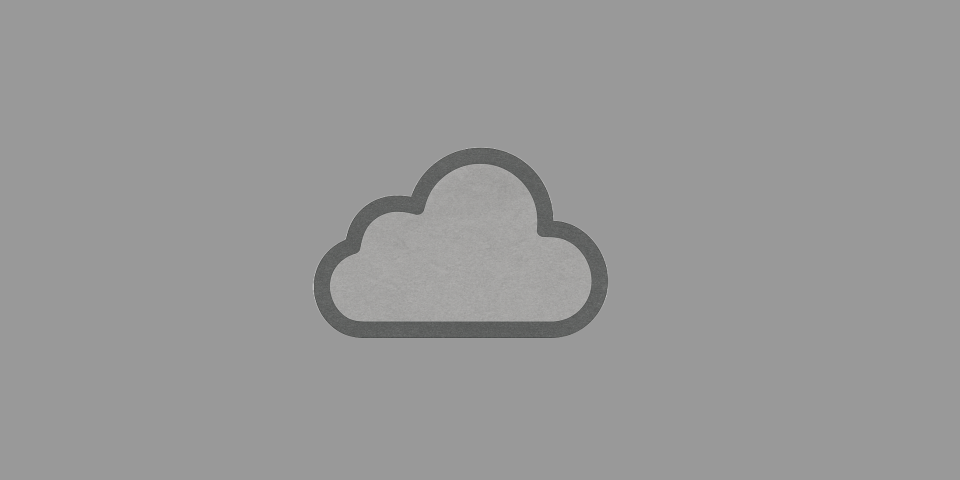
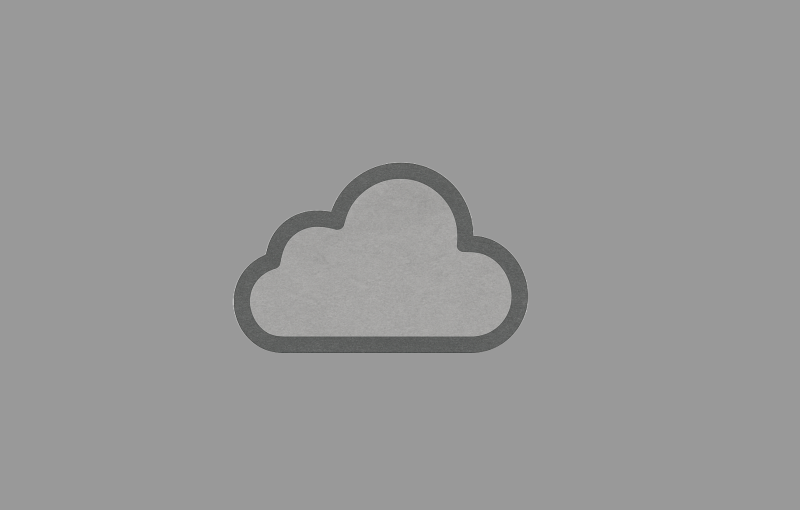
Custom Stop Words + Word Cloud Resizing

Changed region(s): [[0.2812, 0.3125, 0.6875, 0.7188]]

diff --git a/frontend/static/proctor.js b/frontend/static/proctor.js
@@ -44,6 +44,7 @@ const endDateInput = document.getElementById('selectedEndDate');
 dateValidation = true; // Global variable to track date validation state
 
 document.addEventListener('DOMContentLoaded', function () {
+    // Page setup
     loadClasses();
     loadEnrollments(); // Ensure enrollments are loaded to populate tables
     reloadClassDropdowns();
@@ -59,7 +60,7 @@ document.addEventListener('DOMContentLoaded', function () {
             loop: true,
             margin: 20,
             autoplay: true,
-            autoplayTimeout: 5000, // 5 seconds
+            autoplayTimeout: 10000, // 10 seconds
             autoplayHoverPause: true,
             smartSpeed: 700,
             responsive: {
@@ -145,9 +146,10 @@ document.addEventListener('DOMContentLoaded', function () {
             const startDate = formData.get('selectedStartDate');
             const endDate   = formData.get('selectedEndDate');
             const qaFilter  = formData.get('qa_filter');
+            const stopWords = formData.get('customStopWords');
 
-            console.log({ classId, userId, startDate, endDate, qaFilter });
-            generateReport(classId, userId, startDate, endDate, qaFilter);
+            console.log({ classId, userId, startDate, endDate, qaFilter, stopWords });
+            generateReport(classId, userId, startDate, endDate, qaFilter, stopWords);
         });
     }
 
@@ -627,7 +629,7 @@ function validateDates() {
     endDateInput.reportValidity();
 }
 
-function generateReport(classFilter='All', userFilter='All', startDate=null, endDate=null, qaFilter='Both') {
+function generateReport(classFilter='All', userFilter='All', startDate=null, endDate=null, qaFilter='Both', stopWords='') {
     if (startDate === '') startDate = null;
     if (endDate === '') endDate = null;
 
@@ -668,6 +670,7 @@ function generateReport(classFilter='All', userFilter='All', startDate=null, end
             return;
         }
 
+        // Modifying the word cloud to show generating state
         // Reset the word cloud image
         const cloud = document.getElementById('word_cloud_img');
         const container = document.querySelector('.wordcloud-container');
@@ -686,12 +689,14 @@ function generateReport(classFilter='All', userFilter='All', startDate=null, end
 
         cloud.src = 'static/img/word_cloud_placeholder.png?ts=' + Date.now();
 
+        // Gathering set filters to send to backend
         const params = new URLSearchParams({
             class_id: classFilter,
             user_id: userFilter,
             start_date: startDate,
             end_date: endDate,
-            qa_filter: qaFilter
+            qa_filter: qaFilter,
+            stop_words: stopWords
         });
 
         // Call flask API to generate report
@@ -824,7 +829,7 @@ function clearDashboardFilters() {
     document.getElementById('selectedQAFilterText').innerText = 'Both';
 
     // Regenerate report with default parameters
-    generateReport('All', 'All', null, null, 'Both');
+    generateReport();
 }
 
 

diff --git a/frontend/static/proctor.css b/frontend/static/proctor.css
@@ -217,15 +217,7 @@ tr.hidden {
         width: 100% !important; /* Each header cell takes full width */
         padding: 0.5rem !important; /* Adjust padding as needed */
         text-align: left !important; /* Align content to the left */
-        vertical-align: top !important; /* Align content to top */
         position: relative !important;
-        
-        /* TRUNCATION PROPERTIES REMOVED HERE, NOW HANDLED BY JAVASCRIPT */
-        /* white-space: nowrap !important; */
-        /* overflow: hidden !important; */
-        /* text-overflow: ellipsis !important; */
-        /* word-wrap: normal !important; */
-
         border-bottom: none !important;
         font-size: 0.875rem !important;
         color: #4a5568 !important;
@@ -420,7 +412,7 @@ tr.hidden {
   position: relative;
   width: 100%;
   max-width: 800px;
-  aspect-ratio: 2 / 1;
+  /* aspect-ratio: 2 / 1; */
   margin: 0 auto;
   overflow: hidden;
 }

diff --git a/backend/app.py b/backend/app.py
@@ -13,6 +13,8 @@ import datetime
 from bs4 import BeautifulSoup
 import re
 from nltk.corpus import stopwords
+from nltk import pos_tag
+from nltk.corpus import wordnet
 from nltk.stem import WordNetLemmatizer
 from wordcloud import WordCloud
 import matplotlib.pyplot as plt
@@ -22,7 +24,7 @@ import random
 
 
 stop_words = set(stopwords.words('english'))
-custom_stop_words = {'like', 'lets', 'one', 'something', 'start', 'begin', 'try', 'trying', 'go', 'back', 'step', 'thing', 'another', 'keep', 'much', 'done', 'dont', 'doesnt', 'didnt', 'isnt', 'possible', 'different', 'suppose', 'used'}
+custom_stop_words = {'like', 'lets', 'one', 'something', 'start', 'begin', 'try', 'trying', 'go', 'back', 'step', 'thing', 'another', 'keep', 'much', 'done', 'dont', 'doesnt', 'didnt', 'isnt', 'possible', 'different', 'suppose', 'used', 'might', 'think', 'youre', 'often', 'make', 'need', 'use', 'consider', 'ensure', 'involes', 'include', 'understand'}
 
 app = Flask(__name__)
 CORS(app, supports_credentials=True, origins=["http://localhost"])
@@ -654,7 +656,9 @@ def generate_report():
     Fstart_date = request.args.get('start_date')
     Fend_date = request.args.get('end_date')
     Fqa_filter = request.args.get('qa_filter')
+    Fstop_words = request.args.get('stop_words')
 
+    # Check required parameters - these should never be None because their defaults are set in the frontend
     print(f"Class ID: {FcourseId}, User ID: {FuserId}, Start: {Fstart_date}, End: {Fend_date}, QA Filter: {Fqa_filter}")
     if not FcourseId or not FuserId or not Fqa_filter:
         return jsonify(success=False, message="Missing course, user ID, or qa filter"), 400
@@ -733,8 +737,6 @@ def generate_report():
     print(f"Executing query: {query}")
     print(f"With parameters: {params}")
 
-
-
     conn = get_db_connection()
     cursor = conn.cursor(dictionary=True)
 
@@ -749,13 +751,14 @@ def generate_report():
         combined_text = ""
         for row in results:
             if 'question' in row:
-                cleaned_question = clean_text(row['question'])
+                cleaned_question = lemmatize_text(row['question'])
+                cleaned_question = clean_text(cleaned_question, Fstop_words)
                 combined_text += cleaned_question + " "
             if 'answer' in row:
                 cleaned_answer = remove_answer_stop_words(row['answer'])
-                cleaned_answer = clean_text(cleaned_answer)
+                cleaned_answer = lemmatize_text(cleaned_answer)
+                cleaned_answer = clean_text(cleaned_answer, Fstop_words)
                 combined_text += cleaned_answer + " "
-        combined_text = lemmatize_text(combined_text)  # Lemmatize the combined text
         combined_text = combined_text.strip()  # Remove any leading/trailing whitespace
         # print(f"Formatted results: {combined_text}")  # Debugging line to check formatted results
 
@@ -784,7 +787,7 @@ def remove_answer_stop_words(answer):
 
     return answer
 
-def clean_text(text):
+def clean_text(text, added_stop_words=''):
     """
     Clean the text by removing non-alphanumeric characters, extra whitespace, and stop words.
     """
@@ -801,17 +804,39 @@ def clean_text(text):
     cleaned_text = ' '.join(filtered_words)
 
     # 4. Remove custom stop words
-    cleaned_text = ' '.join(word for word in cleaned_text.split() if word.lower() not in custom_stop_words)
+    all_custom_stop_words = custom_stop_words.union(set([word.strip() for word in added_stop_words.split(",")]))
+    cleaned_text = ' '.join(word for word in cleaned_text.split() if word.lower() not in all_custom_stop_words)
     
     return cleaned_text
 
+def get_wordnet_pos(treebank_tag):
+    """
+    Convert NLTK POS tags to WordNet POS tags.
+    """
+    if treebank_tag.startswith('J'):
+        return wordnet.ADJ
+    elif treebank_tag.startswith('V'):
+        return wordnet.VERB
+    elif treebank_tag.startswith('N'):
+        return wordnet.NOUN
+    elif treebank_tag.startswith('R'):
+        return wordnet.ADV
+    else:
+        return wordnet.NOUN  # fallback to noun
+
 def lemmatize_text(text):
     """
-    Lemmatize the text using NLTK's WordNetLemmatizer.
+    Lemmatize text using NLTK's WordNetLemmatizer with proper POS tagging.
     """
     lemmatizer = WordNetLemmatizer()
     words = text.split()
-    lemmatized_words = [lemmatizer.lemmatize(word) for word in words]
+    pos_tags = pos_tag(words)
+
+    # print(f"POS tags: {pos_tags}")  # Debugging line to check POS tags
+    lemmatized_words = [
+        lemmatizer.lemmatize(word, get_wordnet_pos(tag))
+        for word, tag in pos_tags
+    ]
     return ' '.join(lemmatized_words)
 
 def generate_wordcloud(text):
@@ -819,7 +844,7 @@ def generate_wordcloud(text):
     Generate a word cloud from the given text.
     """
     # Uncertain on whether to include collocations or not, but set to False for now
-    wordcloud = WordCloud(width=800, height=400, background_color='white', color_func=etown_color_func, collocations=False).generate(text)
+    wordcloud = WordCloud(width=800, height=510, background_color='white', color_func=etown_color_func, collocations=False).generate(text)
 
     # Save image to memory buffer
     img_io = BytesIO()
@@ -841,6 +866,7 @@ def etown_color_func(word, font_size, position, orientation, random_state=None, 
     """
     colors = [
         "#00529B",  # Royal Blue
+        "#5FADF1",  # Light Blue
         "#A7A8AA",  # Gray
         "#003865"   # Darker Blue Accent
     ]

diff --git a/frontend/proctor.php b/frontend/proctor.php
@@ -265,20 +265,26 @@ if ($currentUserId) {
                                             </div>
                                             <input type="hidden" id="qa_filter" name="qa_filter" value="Both">
                                         </div>
-                                        <div class="flex items-end">
-                                            <button type="button" class="btn btn-danger w-full" onclick="clearDashboardFilters()">Clear Filters</button>
+                                        <div class="items-end">
+                                            <label for="customStopWords" class="form-label">Word Filter</label>
+                                            <input 
+                                                type="text" 
+                                                id="customStopWords" 
+                                                name="customStopWords" 
+                                                placeholder="e.g. word1, word2, word3..." 
+                                                class="form-control bg-gray-300" 
+                                            />
                                         </div>
-                                    </div>
-                                    
-                                    <div class="flex items-end mt-4">
+                                        <!-- Clear/Submit Buttons -->
+                                        <button type="button" class="btn btn-danger w-full" onclick="clearDashboardFilters()">Clear Filters</button>
                                         <button type="submit" class="btn btn-primary w-full">Generate Report</button>
                                     </div>
                                     
-
+                                    
                                 </form>
                             </div>
 
-                            <!-- Right: Word Cloud -->
+                            <!-- Right: Word Cloud -->                                    
                             <div class="wordcloud-container">
                                 <img id='word_cloud_img' src="static/img/word_cloud_placeholder.png" alt="Word Cloud" class="w-full h-auto rounded border border-gray-300" />
                             </div>

diff --git a/setup/postinstall.py b/setup/postinstall.py
@@ -4,3 +4,4 @@ import nltk
 nltk.download('wordnet')
 nltk.download('omw-1.4')
 nltk.download('punkt')
+nltk.download('averaged_perceptron_tagger_eng')
